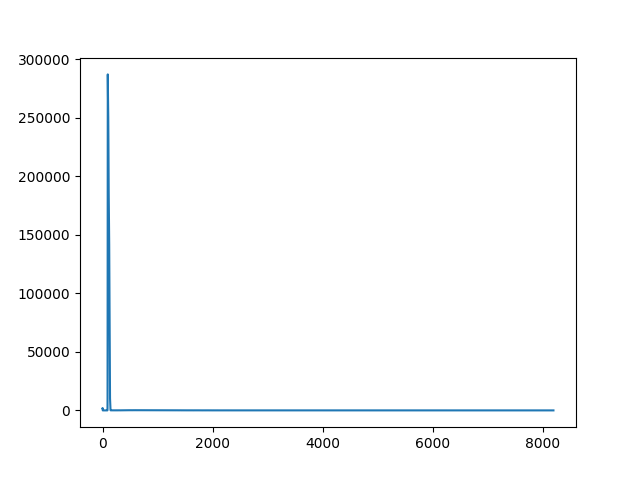
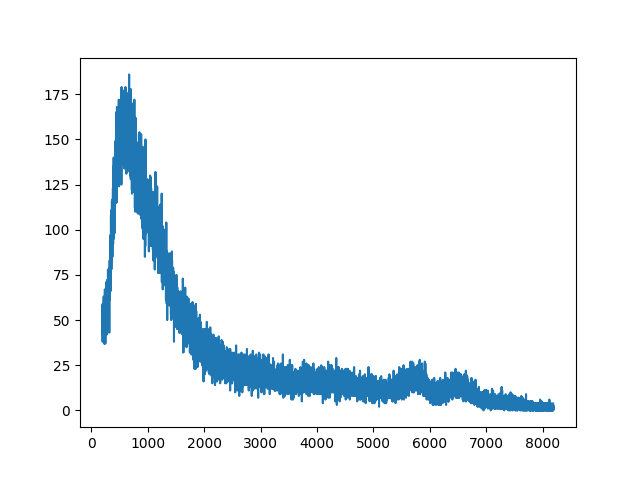
code: log_file (utils), load_spectrum (handling_)

diff --git a/analysis-code/utils.py b/analysis-code/utils.py
@@ -1,0 +1,33 @@
+#------------------------------------------------------
+#            utilities: i.e. editing .json files
+#------------------------------------------------------
+
+import os 
+import json
+from datetime import datetime
+
+
+def log_file(folder, filename, description):
+    """
+    Add or update an entry in orientation.json
+    ---
+    folder:         the target folder of object
+    filename:       the target filename to be described
+    description:    the suitable description of filename
+    """
+    log_path = os.path.join(folder, "orientation.json")
+
+    if os.path.exists(log_path):
+        with open(log_path, "r") as f:
+            index = json.load(f)
+    else:
+        index = {}
+    
+    timestamp = datetime.now().strftime("%Y-%m-%d %H:%M")
+    index[filename] = {
+                        "description": description,
+                        "update": timestamp
+                    }
+    
+    with open(log_path, "w") as f:
+        json.dump(index, f, indent=2)

diff --git a/analysis-code/handling_data.py b/analysis-code/handling_data.py
@@ -7,10 +7,16 @@ import pandas as pd
 import matplotlib.pyplot as plt
 
 def load_spectrum(filepath):
-    """Returns DataFrame with columns: channel, counts"""
+    """
+    Returns DataFrame with columns: counts
+    """
     df = pd.read_csv(filepath, sep='/t', comment='#',
                      names=['counts'])
     return df
+
+
+
+
 
 if __name__ == '__main__':
     test_data_path = "../data/test_data/1-co-wed-LA5.TKA"
@@ -18,5 +24,5 @@ if __name__ == '__main__':
     print(test_data)
     channels =np.arange(len(test_data.index))
     counts = test_data['counts'].to_numpy()
-    plt.plot(channels, counts)
+    plt.plot(channels[200:], counts[200:])
     plt.savefig("../figures/test_data_plot.png")
